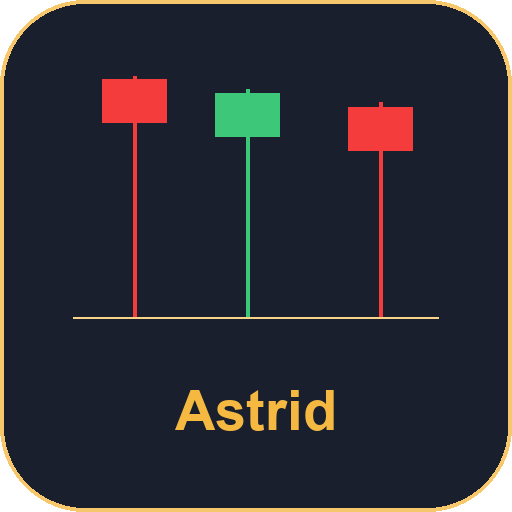
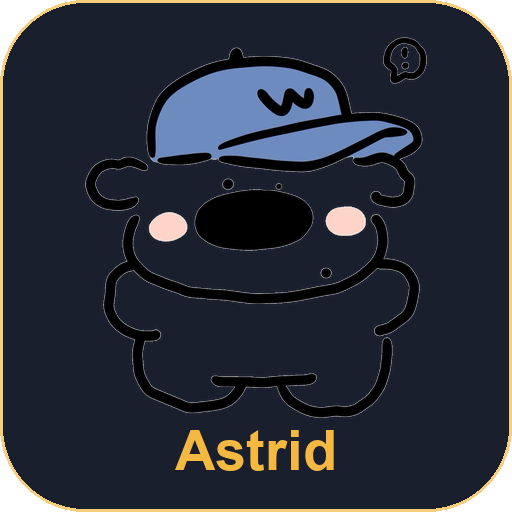
App图标改为卡通小熊形象+应用名Astrid专属

Changed region(s): [[0.1562, 0.0625, 0.8438, 0.9375]]

diff --git a/site/index.html b/site/index.html
@@ -3,14 +3,14 @@
 <head>
 <meta charset="UTF-8">
 <meta name="viewport" content="width=device-width, initial-scale=1.0, maximum-scale=1.0, viewport-fit=cover">
-<title>Astrid · 盘前全球市场简报</title>
+<title>Astrid专属 · 盘前全球市场简报</title>
 <link rel="manifest" href="manifest.json">
 <link rel="icon" type="image/png" href="favicon.png">
 <link rel="apple-touch-icon" href="apple-touch-icon.png">
 <meta name="theme-color" content="#1a1f2e">
 <meta name="apple-mobile-web-app-capable" content="yes">
 <meta name="apple-mobile-web-app-status-bar-style" content="black-translucent">
-<meta name="apple-mobile-web-app-title" content="Astrid">
+<meta name="apple-mobile-web-app-title" content="Astrid专属">
 <meta name="mobile-web-app-capable" content="yes">
 <script src="data.js"></script>
 <style>
